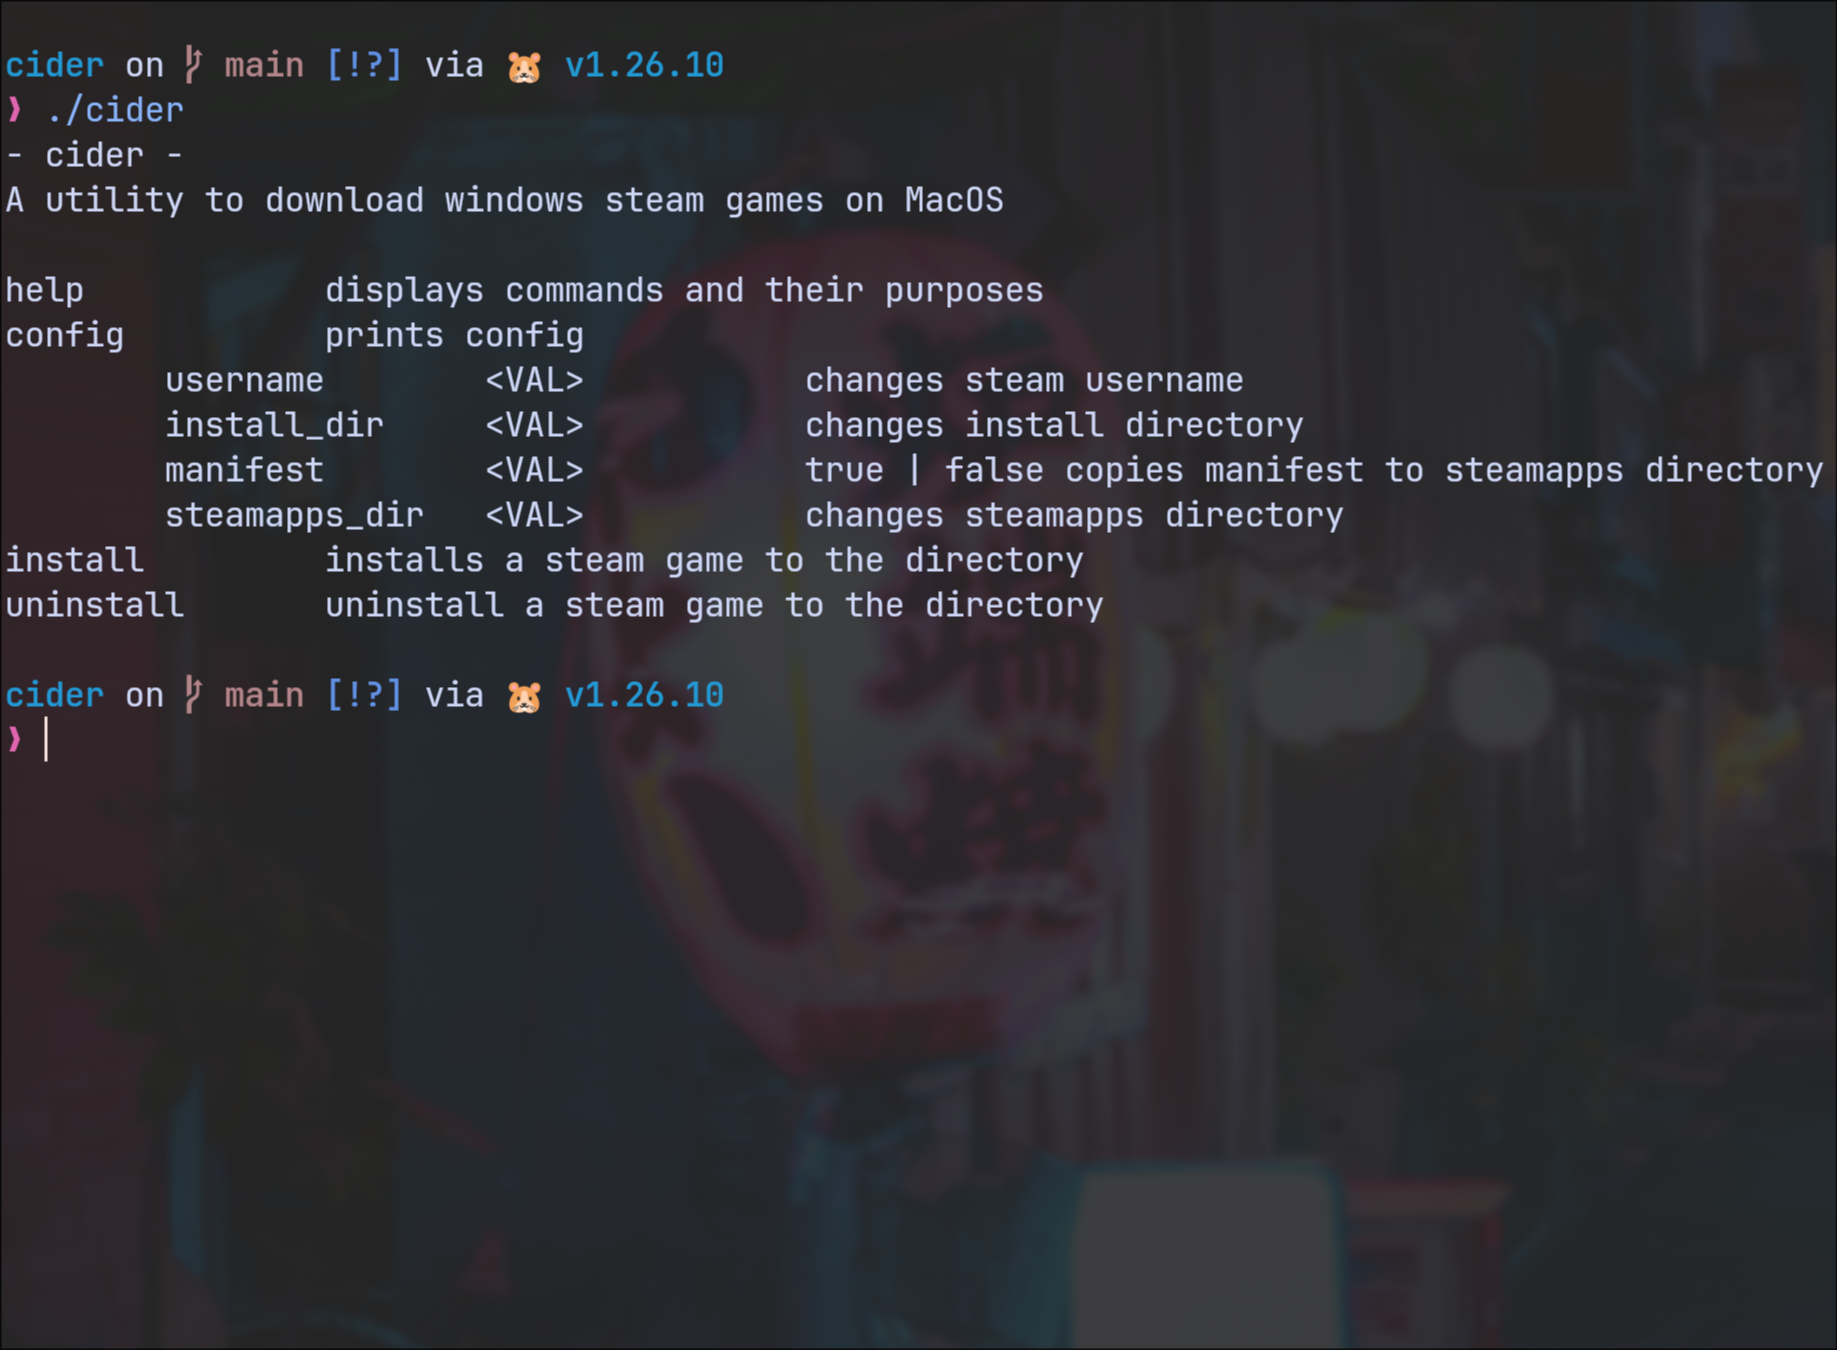
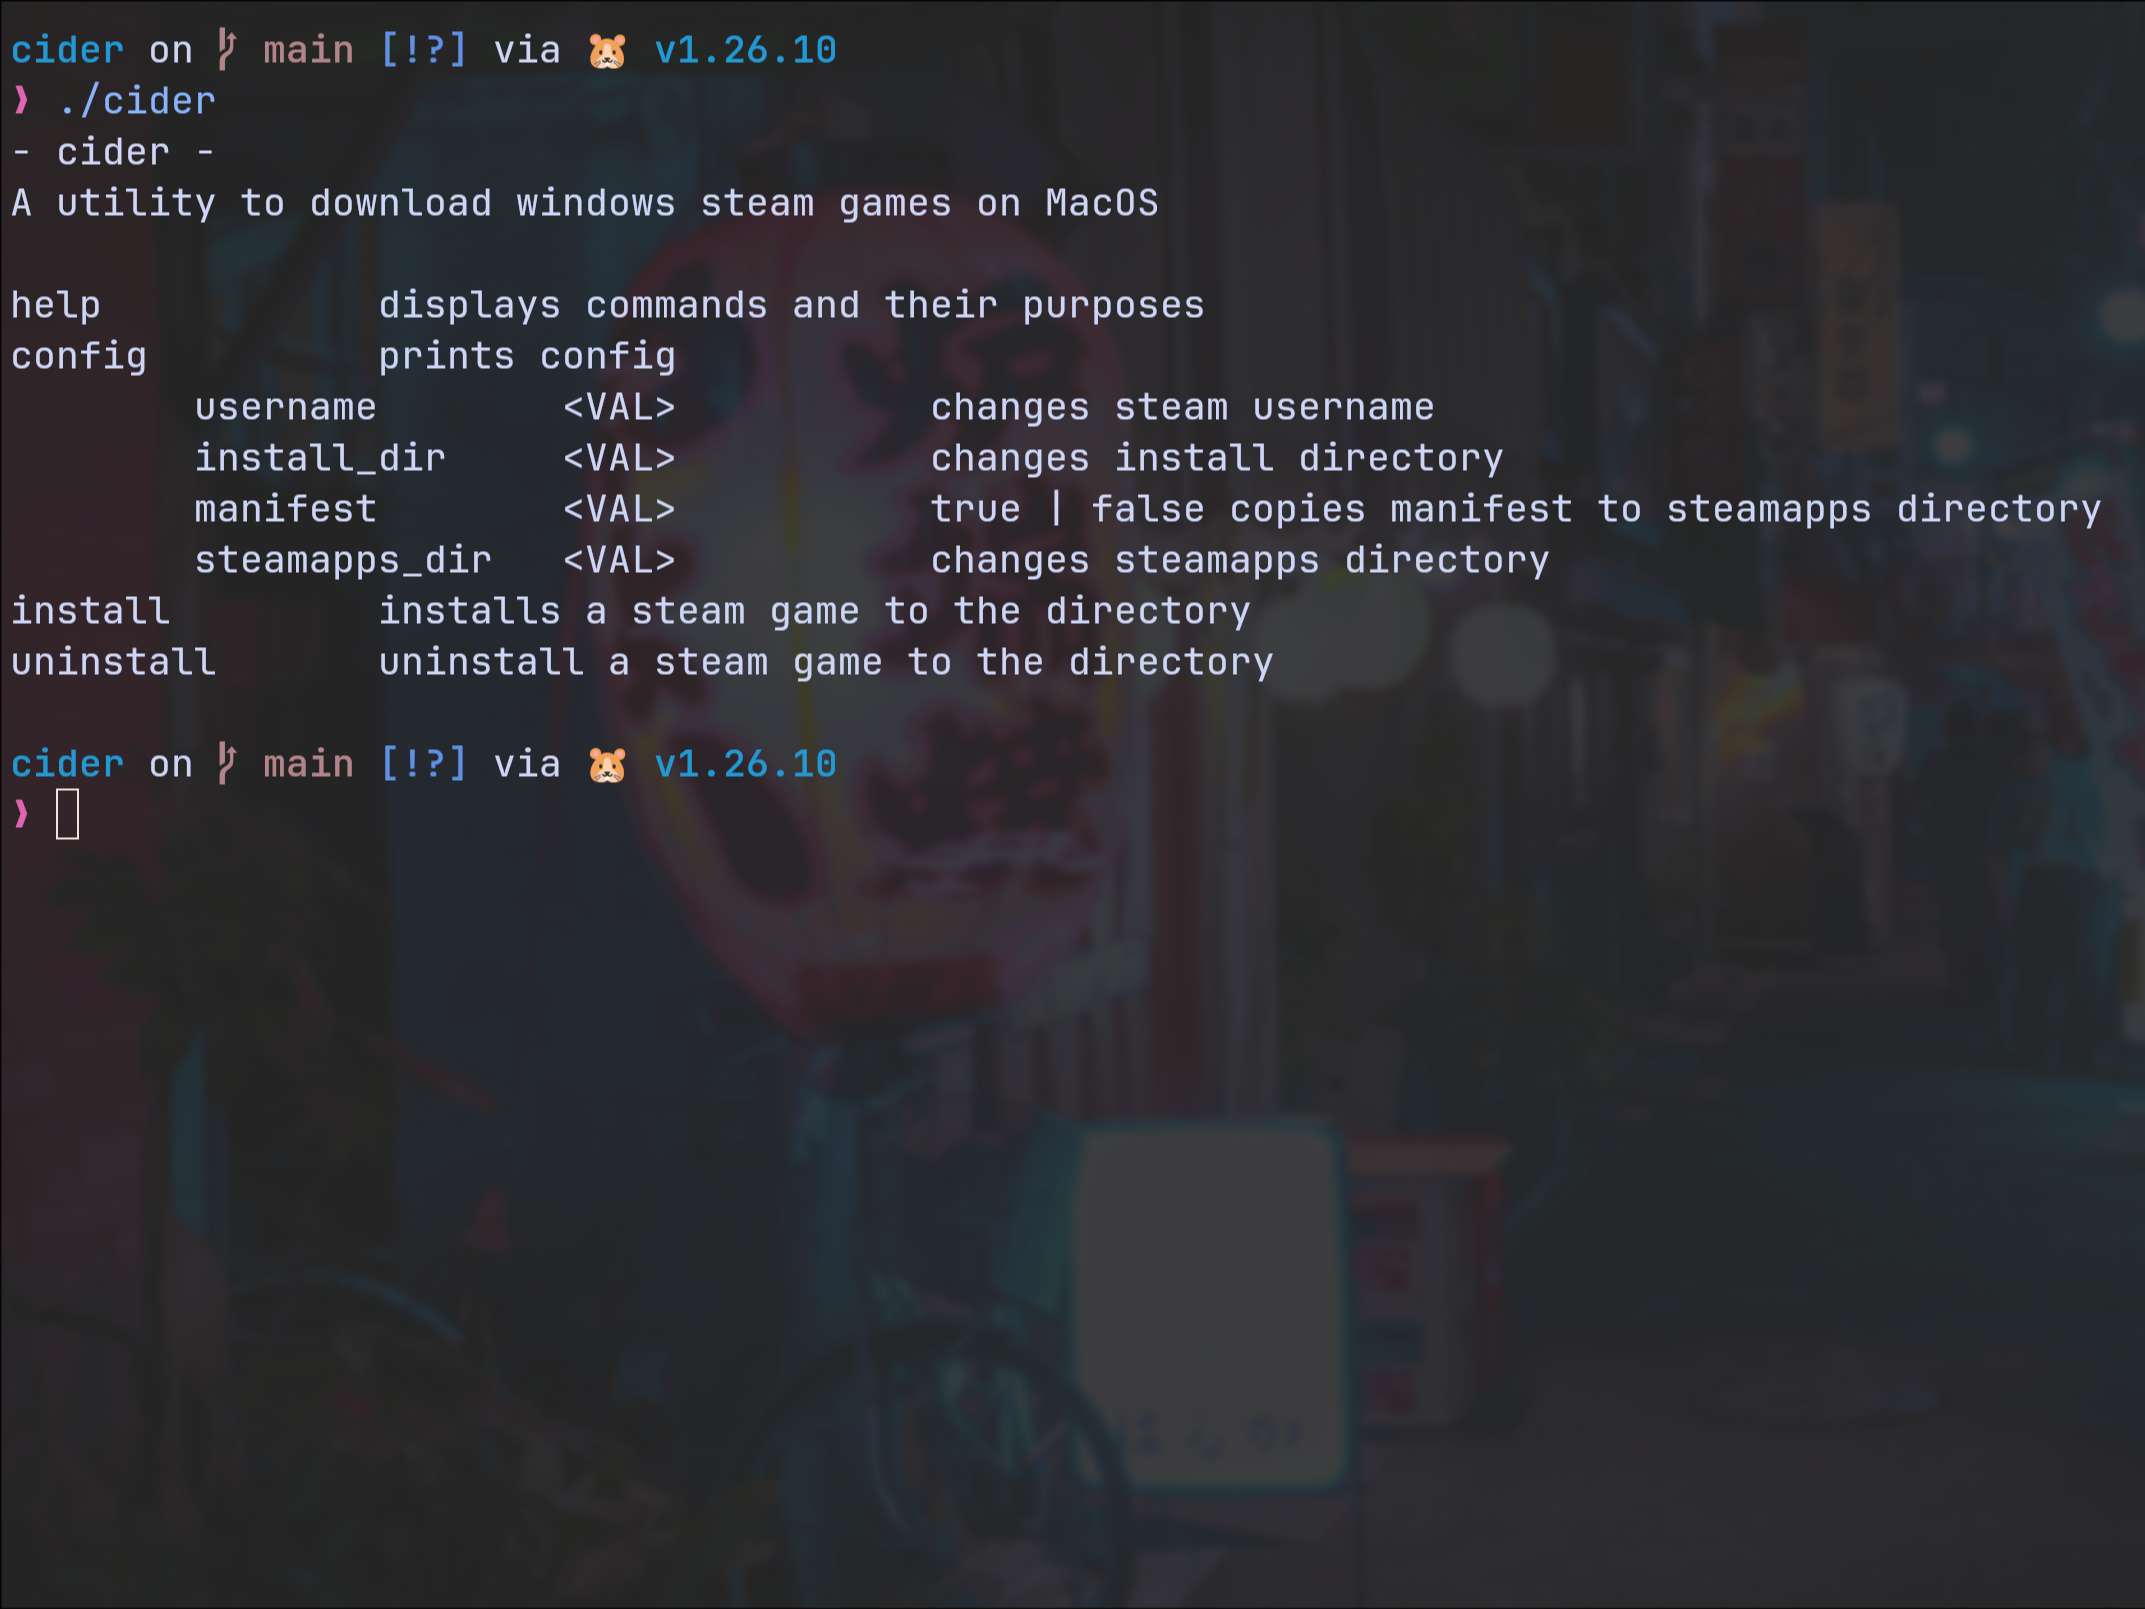
add projects and modify Carousel css

diff --git a/src/components/sections/Hero.css b/src/components/sections/Hero.css
@@ -24,6 +24,8 @@ section#hero {
 
 .inner-hero {
     animation-name: flyInLeft;
+    animation-fill-mode: backwards;
+    animation-delay: 0.2s;
     animation-duration: 0.5s;
     margin-top: 3%;
     width: 100%;

diff --git a/src/components/Carousel.css b/src/components/Carousel.css
@@ -118,7 +118,7 @@
 .slide {
     width: 100%;
     flex: 0 0 100%;
-    object-fit: scale-down;
+    object-fit: fill;
     aspect-ratio: 4 / 3;
 }
 
